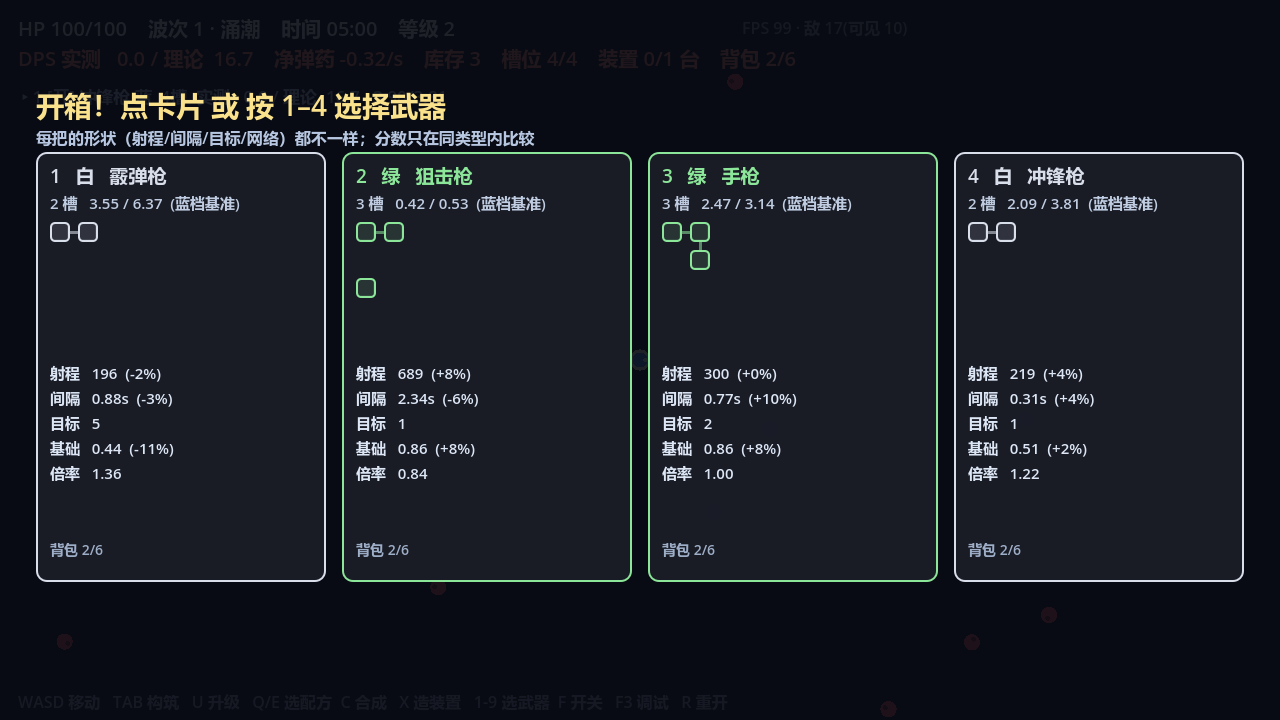
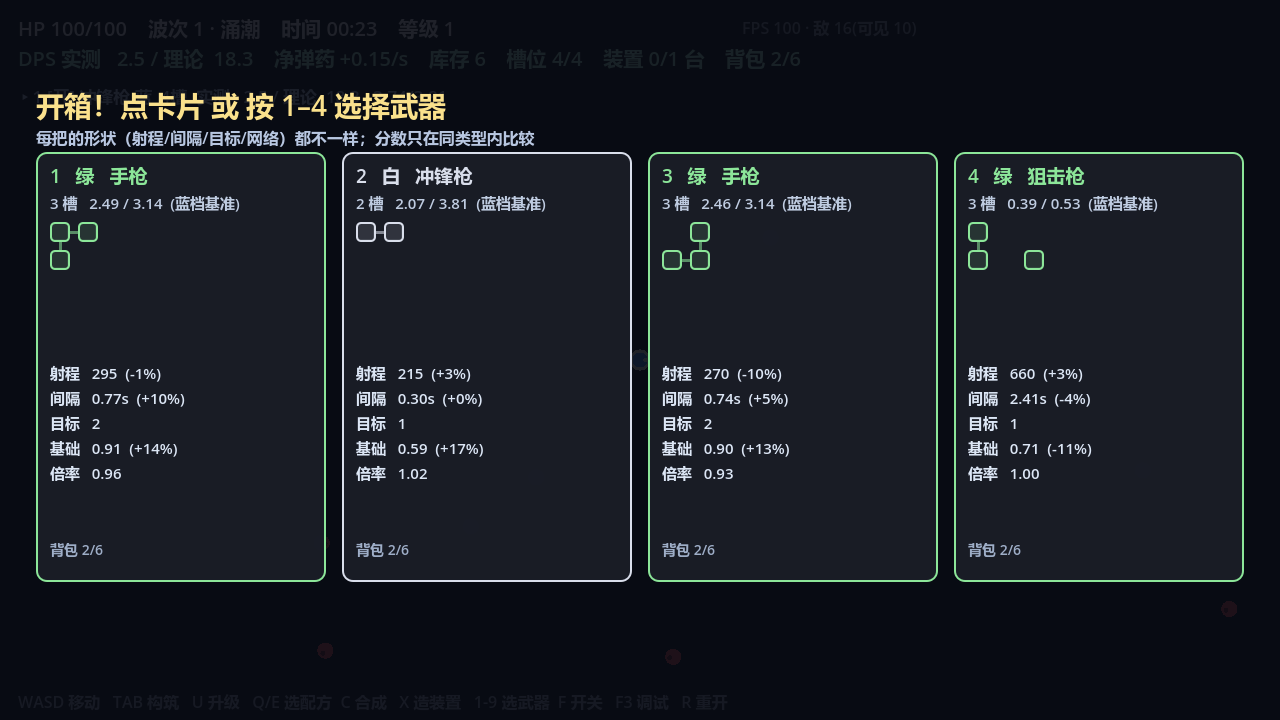
docs(S4): README 状态表/数值/按键同步到 S1-S3；reference 增调试与测试章节；chest 截图入库

diff --git a/README.md b/README.md
@@ -13,30 +13,30 @@
 | 系统 | 状态 |
 | --- | --- |
 | 移动、敌人追击、受击反馈、击退、脱战回血 | 完成 |
-| 5 种敌人（涌潮 / 疾行者 / 磐石 / 射手 / 冲刺精英）+ 5 套波次编成 | 完成 |
+| 5 种敌人（涌潮 / 疾行者 / 磐石 / 射手 / 冲刺精英）+ 5 套波次编成 + 4 种生成编队（单点 / 一团 / 弧线 / 一整圈） | 完成 |
 | 冲刺精英（蓄力红线 → 冲刺 → 硬直）与远程射手（子弹 + 无敌帧） | 完成 |
-| 搜寻目标自动开火（最近 N 个目标 + 拖尾弹道） | 完成 |
-| 5 把武器：手枪 / 冲锋枪 / 霰弹枪 / 狙击枪 / 激光环 | 完成 |
-| 多武器并行开火、左侧武器栏、逐把开关 | 完成 |
-| 模块掉落、吸附、自动入槽 | 完成 |
-| 电路板槽位（品质决定数量与连接方式） | 完成 |
-| 模块网络（加法镜像、增幅加成、共振加成） | 完成 |
+| 搜寻目标自动开火（最近 N 个目标 / 镭射锁最高血量 / 狙击优先射手和精英 + 拖尾弹道） | 完成 |
+| 8 把武器：手枪 / 冲锋枪 / 霰弹枪 / 狙击枪 / 镭射 / 榴弹炮 / 环绕刃 / 激光环 | 完成 |
+| 多武器并行开火、左侧武器栏（最多 6 行 + F3 看全部）、逐把开关 | 完成 |
+| 模块掉落、吸附、自动入槽（模块永远装进「当前选中」的那把） | 完成 |
+| 电路板槽位（品质决定数量，**布局随机生成**：基础网络积木 + 旋转镜像 + 密堆/留缝） | 完成 |
+| 模块网络（加法镜像、增幅加成、共振加成、不做连锁传播） | 完成 |
+| 20 个模块 / 16 个可解锁配方（含 6 个武器特化件） | 完成 |
 | 合成装置（可反复制造，并行合成位） | 完成 |
-| 宝箱（精英 / 地图 / 保底）→ 新武器 | 完成 |
-| 升级 4 选 1（3 buff + 1 配方卡，可 reroll）、理论/实测 DPS 面板 | 未做（方案 v2.6） |
-| 16 个可解锁配方（含 6 个武器特化件：多膛组 / 轻质弹链 / 扩散器 / 聚焦环 / 集束装药 / 长刃） | 未做（方案 v2.6 §1.2 §1.3） |
-| 镭射武器（按 HP 锁目标、连续命中叠倍率） | 未做（方案 v2.6 §2.7） |
-| 榴弹炮（命中点爆炸）与环绕刃（绕圈、每圈扣 1 次） | 未做（方案 v2.6 §2.8 §2.9） |
-| 狙击枪优先攻击射手/精英 | 未做（方案 v2.6 §2.6） |
-| 背包上限 6、宝箱品质只由宝箱决定 | 未做（方案 v2.6 定案） |
-| 布局随机组合生成 | 未做 |
+| 升级四选一（3 buff + 1 配方卡，T 换牌）、14 个 buff | 完成 |
+| 宝箱 4 选 1（品质 / 数值 / 迷你电路板预览；背包满走替换界面） | 完成 |
+| 武器数值随机化（同类型内分值归一化，`rolltest` 自检 0 倒挂） | 完成 |
+| 调试 HUD（FPS / 敌人数 / 需求比 / `F3` 面板 / `seed=` 复现） | 完成 |
 | 元游戏（工坊等级、跨局保留）、词条 | 未做 |
 | 胜利结算（目前是无限刷） | 未做 |
 | 音效、粒子、打击感 | 未做 |
+| 经济过松：后期库存堆到 400+ 基础模块用不掉 | 待调 |
 
 ![战斗界面](docs/screenshots/combat.png)
 
 ![构筑界面：电路板 + 库存 + 配方](docs/screenshots/build.png)
+
+![宝箱四选一：品质、数值、迷你电路板](docs/screenshots/chest.png)
 
 ## 核心循环
 
@@ -71,9 +71,14 @@ Windows 下如果报 `Could not create directory: 'user://logs'`，先设 `$env:
 | TAB | 打开/关闭构筑界面（暂停游戏） |
 | 1–9 | 选中左侧武器栏里的第 N 把（构筑屏编辑的就是它） |
 | F | 开 / 关当前武器 |
+| F3 | 调试面板（FPS、敌人总数/可见数、刷怪率、需求比、种子） |
 | U | 升级（消耗库存模块，解锁配方） |
-| C / V / B | 把「加法 / 增幅 / 共振」配方塞进空闲合成装置 |
+| Q / E | 构筑屏里翻配方（20 个配方分页显示） |
+| C | 把当前选中的配方塞进空闲合成装置 |
+| V / B | 快捷合成「增幅 / 共振」 |
 | X | 造一台合成装置（吃基础模块） |
+| 1–4 / 空格 / 回车 | 升级四选一时选卡 |
+| T | 把配方卡换成第 4 张 buff（每级一次） |
 | R | 重开 |
 
 ## 数值（当前代码）
@@ -81,7 +86,9 @@ Windows 下如果报 `Could not create directory: 'user://logs'`，先设 `$env:
 | 项 | 值 |
 | --- | --- |
 | 敌人 HP | `1.80 × 1.118^(wave−1)`，12 波后额外 `×1.045^(wave−12)`，再乘该敌人的血量倍率 |
-| 刷怪速率 | `0.90 × 1.42^wave × 编成系数`，上限 `基础值 × 1.8` |
+| 刷怪速率 | `1.20 × 1.19^wave × 编成系数`，上限 `基础值 × 1.8` |
+| 生成半径 | 1200–1400（一定在屏幕外，敌人从四面走进来） |
+| 镜头 | zoom 0.62（关掉 position_smoothing：Godot 4.7 里和 zoom 同开会算出 NaN 导致整屏消失） |
 | 每杀掉落 | 0.30 个基础模块 × 该敌人血量倍率 ÷ 本波平均倍率 |
 | 波间隔 | 40 s |
 | 同屏上限 | 560 只 |
@@ -91,7 +98,10 @@ Windows 下如果报 `Could not create directory: 'user://logs'`，先设 `$env:
 | 配方解锁 | 加法 Lv4 · 增幅 Lv8 · 共振 Lv16 |
 | 升级成本 | `3 × 1.18^(level−1)` 个模块 |
 | 武器品质 | 开局蓝 4 槽 → 12 波紫 5 槽 → 20 波金 6 槽；品质基础伤害 `0.5 / 0.8 / 1.0 / 1.5 / 2.0` |
-| 合成装置 | 第 n 台造价 `12 × 1.7^(n−2)` 个基础模块，上限 8 台，开局免费 1 台 |
+| 合成装置 | 可反复制造，第 n 台造价 `12 × 1.7^(n−2)` 个基础模块，上限 8 台，开局免费 1 台 |
+| 升级四选一 | 3 张 buff（攻击/经济/生存各一）+ 1 张配方卡，14 个 buff 各自有上限层数 |
+| 宝箱 | 4 把武器任选 / 品质权重按波次 / 背包满 6 时进入「替换」界面 |
+| 武器数值 | 同类型内按分值归一化（`QM = 0.55/0.75/1.00/1.35/1.80`），逐项 ±8%~±20% 浮动，`mul` 吸收误差 |
 | 受击补偿 | 每 8 HP → 1 个模块 |
 | 宝箱 | 精英 50% · 每波 1 个 · 90 秒保底 · 45 秒消失 · 同屏最多 3 个 |
 
